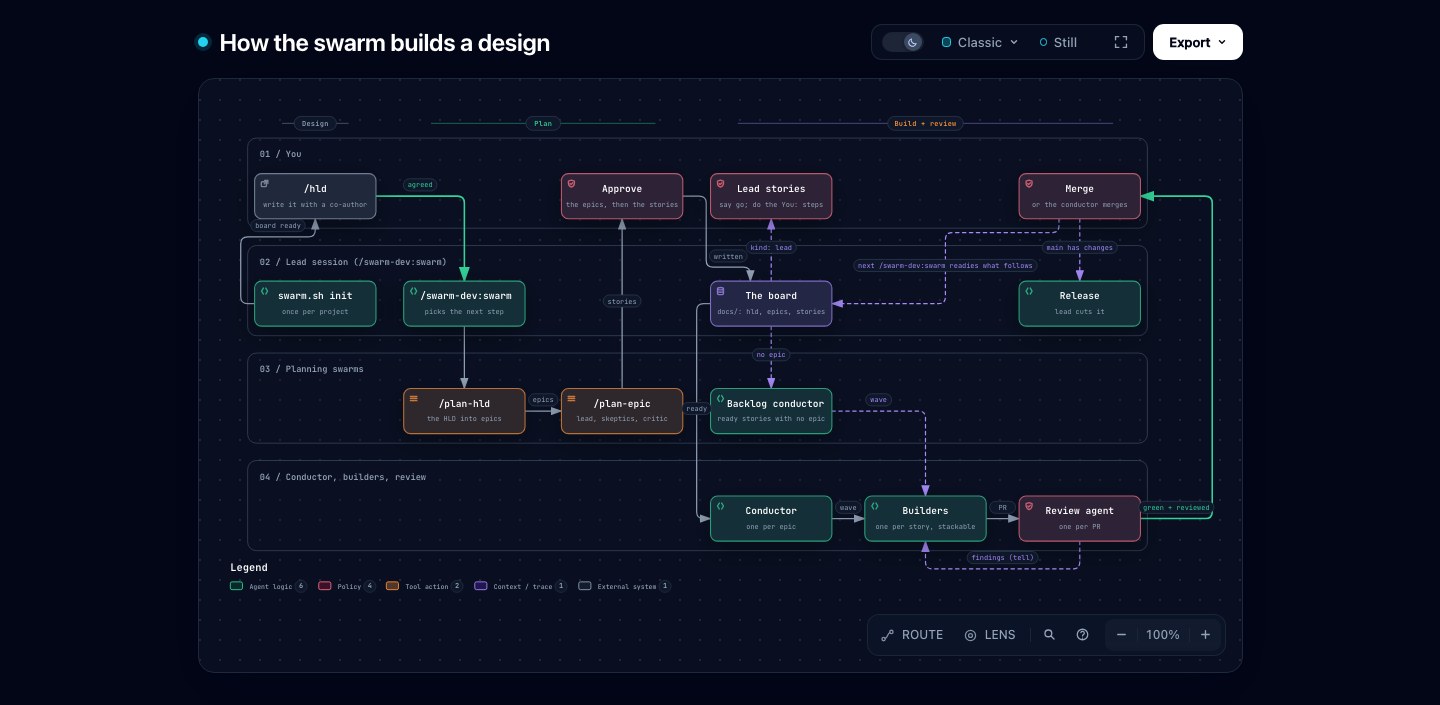
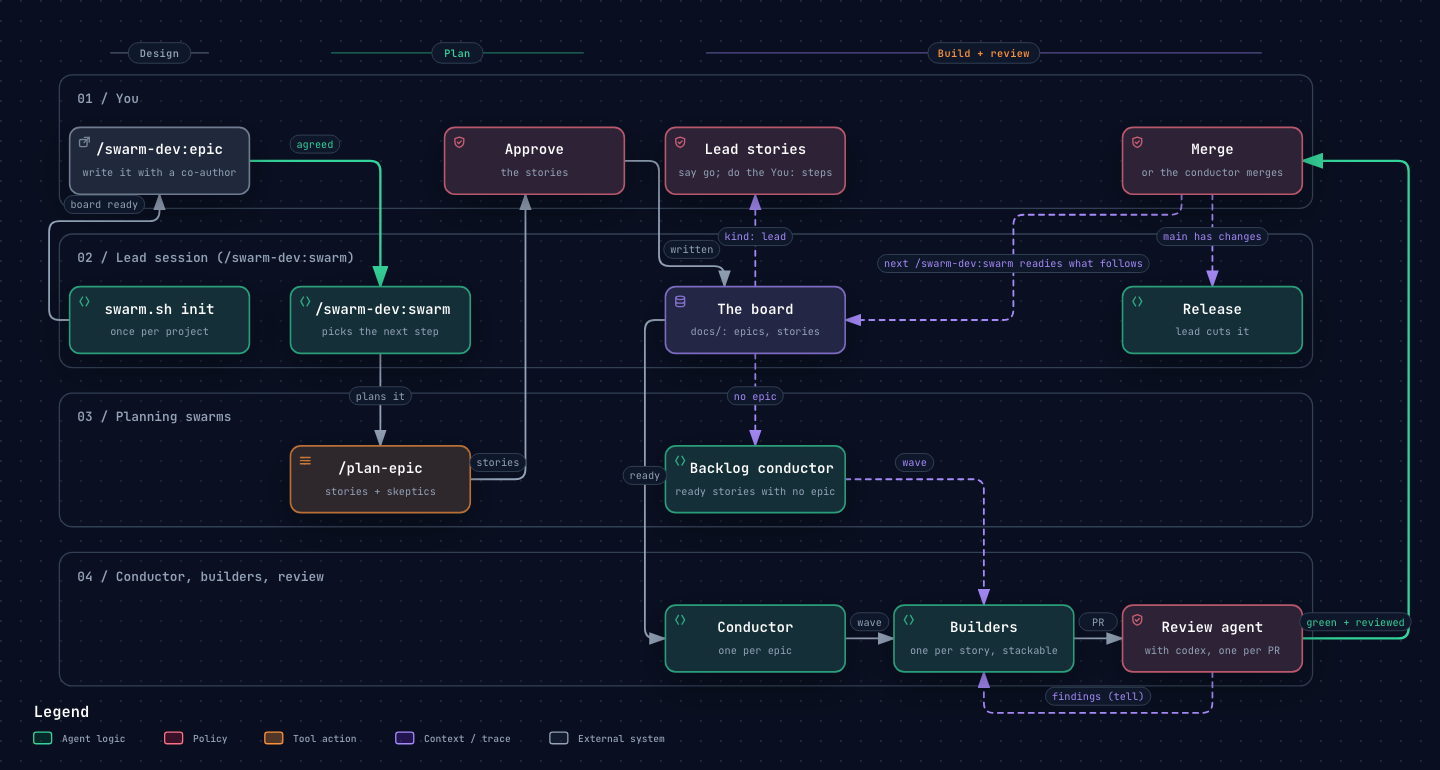
README for a newcomer, the flow diagram without /hld, and AGENTS.md corrections
Claude-Session: https://claude.ai/code/session_01DPGGTEfx4m7EudRUvhD1P5

diff --git a/README.md b/README.md
@@ -3,175 +3,137 @@
 [![CI](https://github.com/redscaresu/swarm-dev/actions/workflows/ci.yml/badge.svg)](https://github.com/redscaresu/swarm-dev/actions/workflows/ci.yml)
 [![OpenSSF Scorecard](https://api.scorecard.dev/projects/github.com/redscaresu/swarm-dev/badge)](https://scorecard.dev/viewer/?uri=github.com/redscaresu/swarm-dev)
 
-swarm-dev runs a team of Claude Code agents that build software while you watch. You agree a design
-with one agent. Others split it into one-PR stories, try to break the plan, and build the stories in
-parallel, each in its own terminal pane and git worktree. Every PR is reviewed before it merges, and
-the run stops whenever a decision is yours.
+swarm-dev is a Claude Code plugin that runs a team of agents to build software while you watch.
+You agree a piece of work with one agent. Others split it into stories of one pull request each,
+try to break that plan, then build the stories in parallel, each in its own terminal pane and git
+worktree. Every PR is reviewed before it merges, and the run stops whenever a decision is yours.
 
 ![swarm.sh dash --watch on a demo project: what needs you and the epics on the left, recent work on the right](docs/assets/dash.gif)
+
+## Quick start
+
+```bash
+claude plugin marketplace add redscaresu/swarm-dev && claude plugin install swarm-dev@swarm-dev
+```
+
+Then, in your project inside [herdr](https://herdr.dev), start `claude` and run:
+
+1. `/swarm-dev:swarm` sets up the board the first time (`swarm.sh init`).
+2. `/swarm-dev:epic Add rate limiting to the API` writes the first piece of work with you.
+3. `/swarm-dev:swarm` again plans it, builds it, and stops each time it needs you.
+
+[Getting started](#getting-started) has the details and what to check first.
 
 ## How it works
 
 <picture>
   <source media="(prefers-color-scheme: dark)" srcset="docs/assets/swarm-flow-dark.png">
-  <img alt="How the swarm builds a design: /epic, /swarm-dev:swarm, /plan-epic, the board, conductor, builders, review, merge" src="docs/assets/swarm-flow-light.png">
+  <img alt="How the swarm builds an epic: /swarm-dev:epic, /swarm-dev:swarm, /plan-epic, your approval, the board, conductor, builders, review agent, merge" src="docs/assets/swarm-flow-light.png">
 </picture>
 
-1. **Design.** You write a draft epic with a co-author agent (`/epic`): the problem with its
-   evidence, goals that can be checked, non-goals and constraints. A reviewer agent attacks it, and
-   nothing plans it until you agree it.
-2. **Plan.** Once you agree the epic, planning agents (`/plan-epic`) split it into stories of one
-   PR each, and skeptic agents try to break the plan. You approve it.
-3. **Build.** A conductor agent starts one builder per story. Each PR gets its own review agent
-   as soon as it is green, and the builder fixes what it finds. A green PR left without a review
-   for 30 minutes (`queue_minutes`) is flagged to the lead, who passes it to the conductor. With
-   `goal = N` in the config (it ships off), each builder also gets a `/goal` condition: every item
-   under its story's **Done when** holds, with N more turns to get there
-   ([details](docs/reference.md#settings)).
-4. **Merge.** Green, reviewed PRs wait for you to merge, or the conductor merges them if you set
-   `merge = agent`. Anything marked `costs: money` always waits for you. If main goes red after a
-   merge, `swarm.sh merge` writes a `fix-main-<sha>` story holding the failed tests' FAIL lines,
-   and the swarm builds that fix before anything else merges. In a swarm project, a
-   plugin hook refuses careless raw merges (`gh pr merge` and GitHub's merge API) in every Claude
-   session, so merges go through `swarm.sh merge`. Where the base has a GitHub merge queue,
-   `swarm.sh merge` goes through it, and the conductor enqueues each reviewed PR without waiting
-   for the one before it to merge ([details](docs/reference.md#merging)). The hook also refuses a `cd` followed by `;`, a
-   `git checkout` that would drop uncommitted changes, and an agent's `git checkout`, `stash` or
-   `reset --hard` in the main checkout, its `pkill` or `killall`, and its `gh pr checks` loops.
-   An agent that herdr brings back after a restart keeps these guards.
-   `swarm.sh merge --release` refuses a version bump while `bin/`, `commands/` or `hooks/` changed
-   since the last tag and README.md, AGENTS.md and `docs/` did not. The lead lands a docs PR
-   first, or, when nothing a user sees changed, writes `Docs: none — <why>` in the release PR body
-   ([details](docs/reference.md#merging)).
+1. **Write the work.** `/swarm-dev:epic <title>` opens a co-author agent in its own pane. Together
+   you write the epic: the problem and its evidence, goals that can be checked (**Done when**), what
+   is out of scope, and your part. A reviewer agent attacks the draft. Nothing is planned until you
+   agree it.
+2. **Plan.** `/swarm-dev:swarm` splits the agreed epic into stories of one PR each. A survey agent
+   reads the code, a lead agent writes the stories, and skeptic agents, codex and a critic try to
+   refute them. You approve the result, which is then written to the board. An epic too large for
+   one run is split into smaller epics first.
+3. **Build.** A conductor agent starts one builder per story. Each builder works in its own git
+   worktree and opens a PR. Once CI is green, a review agent and codex review it, and the builder
+   fixes what they find. A story that fails twice is rebuilt once on Fable, the most capable model,
+   then handed to the lead.
+4. **Merge.** By default a green, reviewed PR waits for you, or for you to ask the lead to merge it.
+   With `merge = agent`, the conductor merges it, except a story marked `costs: money`, which always
+   waits for you. If main goes red after a merge, the swarm writes a story to fix it and builds that
+   first.
 
-Your own Claude session is the lead. It runs `/swarm-dev:swarm`, watches the agents, and handles
-the stories no agent may do: real cloud, credentials and anything hard to undo. Your steps in those
-are marked **You:**. When `swarm.sh next` names a step the lead has not started, a plugin hook
-sends it back once before its turn ends, to start the step or tell you why it can't. Everything
-lives in plain Markdown files (the board), so a run can stop anywhere and the next
+Your own Claude session is the lead. It runs `/swarm-dev:swarm`, watches the agents, and does the
+stories no agent may: real cloud, credentials and anything hard to undo. Your steps in those are
+marked **You:**. The board is plain Markdown in your repo, so a run can stop anywhere and the next
 `/swarm-dev:swarm` picks up where it left off.
 
 ## Requirements
 
-- [Claude Code](https://claude.com/claude-code) 2.1.145 or later (2.1.269 or later with `goal` on)
+- [Claude Code](https://claude.com/claude-code) 2.1.145 or later
 - [herdr](https://herdr.dev) 0.9.2 or later, the terminal multiplexer every agent runs in
 - the [GitHub CLI](https://cli.github.com) and the [codex CLI](https://github.com/openai/codex), both logged in
 - `git`, `python3` and `bash`
+- a GitHub repo, with a `make check` target that runs your tests
 
 ## Getting started
 
-1. Install the plugin, then restart Claude Code:
-
-   ```bash
-   claude plugin marketplace add redscaresu/swarm-dev && claude plugin install swarm-dev@swarm-dev
-   ```
-
+1. Install the plugin (above), then restart Claude Code.
 2. In your project's root, run `claude` once and accept "do you trust this folder?". Agents can't
    start in an untrusted folder.
-3. Inside herdr, run `claude`, then `/swarm-dev:swarm` (type the whole name; the short form
-   completes to another command). The first time, it sets up the board with `swarm.sh init` (which also
-   writes a CI workflow and a pre-commit hook that run `make check`; CI skips a board-only PR)
-   and asks once for your rules for builders: commit trailers, where credentials live, commands that
-   must never run. Commit the `.claude/swarm/brief.md` it writes.
-4. Run `/epic Add rate limiting to the API`, agree the epic, then run `/swarm-dev:swarm` again.
-   Run it each time it stops for you.
+3. Inside herdr, run `claude`, then `/swarm-dev:swarm`. Type the whole name: `/swarm` alone
+   completes to another command. The first time, it runs `swarm.sh init`, which adds the board
+   (`docs/epics/` and `docs/stories/`), `.claude/swarm/config`, and a CI workflow and pre-commit
+   hook that run `make check`. It also asks once for your rules for builders: commit trailers,
+   where credentials live, and commands that must never run. Commit the `.claude/swarm/brief.md`
+   it writes.
+4. Run `/swarm-dev:epic <title>`, agree the epic, then run `/swarm-dev:swarm` again. Run it each
+   time it stops for you.
 
 Your agent can also answer "how do I use swarm-dev?" and "why did /swarm-dev:swarm stop?".
-
-| Command | What it does |
-|---|---|
-| `/epic <title>` | Write a draft epic with a co-author agent; it is planned once you agree it. |
-| `/swarm-dev:swarm` | Run everything after the design, stopping when a decision is yours. |
-| `swarm.sh dash --watch` | The live dashboard above: what needs you, what is running, merges per day over 14 days with gauges for the merge rate and running agents, and a count of ready stories nobody has started ([details](docs/dash.md)). `--check` compares each of its figures with the command that owns it. |
-| `swarm.sh status` | Agents that need a look, what waits on you, and what runs next. |
-| `swarm.sh wait-pr [--timeout <seconds>] <PR URL>` | Wait for a PR's checks: exits 0 green, 1 red, 2 when gh fails, the PR conflicts with its base, no checks appear, or one is still pending at the timeout (30 minutes by default). |
-
-The other commands are tools the lead runs; they are listed in
-[reference.md § Commands](docs/reference.md#commands). Settings go in `.claude/swarm/config`
-([all settings](docs/method.md#configuring-a-project)).
 
 ## When `/swarm-dev:swarm` stops for you
 
 | You see | Do |
 |---|---|
 | a draft epic | finish it with the co-author, then agree it |
-| proposed epics or stories | approve them, or say what to change |
+| proposed stories | approve them, or say what to change |
 | a `lead` story | say go, and do its **You:** steps |
 | a PR waiting for you | merge it, ask the lead to, or close it to send the story back |
-| a `blocked` or `later` item | nothing, or set it `ready` / `active` to start it (a `later` epic whose dependencies are done gets its stories planned first, for you to approve) |
+| a `blocked` or `later` item | nothing, or set it `ready` / `active` to start it |
 | an agent's login expired | run `/login`, then tell `/swarm-dev:swarm` it's done |
-| an agent on `usage-limit` | nothing: `wait` chose "Wait here, then continue automatically", and it carries on when the limit resets |
-| an agent stuck (`stuck: api error` after three resumes, or `stuck: no output` for `stall_minutes`) | read its pane (`herdr agent read <agent>`), then type into it or close it |
+| an agent stuck | read its pane (`herdr agent read <agent>`), then type into it or close it |
+
+## Watching it
+
+| Command | What it shows |
+|---|---|
+| `swarm.sh dash --watch` | The live dashboard above: what needs you, what is running, and merges per day ([details](docs/dash.md)). |
+| `swarm.sh status` | Agents that need a look, what waits on you, and what runs next. |
+| `swarm.sh flow` | Cost, CI health, where stories spent their time, and how each model did. |
+
+The other commands are ones the lead runs; [reference.md § Commands](docs/reference.md#commands)
+lists them all.
 
 ## Cost and safety
 
-Every agent is a full Claude Code session on your own logins. On infrafactory, from 2026-10-09 to
-2026-10-16, a story's build averaged $5.75, and the whole swarm cost $1211.60 for 137 merged PRs
-(about $9 each, planning and review included), at list prices from `swarm.sh flow` and `outcomes`.
-The `cost` section of `swarm.sh flow` shows where your own tokens went, its `ci_health`
-section shows how long CI takes per push, how often it goes red and how often it flakes, and its
-`incidents` section counts, per day, the waits that timed out, the logins that expired, the
-builders that stopped with no PR, the board pulls that an uncommitted edit stopped, each time a
-person had to step in (`swarm.sh intervene lead-hand|user-caught "<one line>"`, which the lead logs;
-dash shows the 7-day count beside the speedometer), then the agents that stopped on an API error or
-an auto mode denial, per epic. `ci_health` also gives each repo's median CI time per PR and its
-slowest job, beside the same figures for the window before; dash shows this week's against last
-week's on one line. When gh cannot read a PR, it names the gh call and gh's error. Its
-`lead_queue` section shows, per day, the median and longest time a held, escalated or ready-to-merge
-item waited on the lead, and names any still waiting. With `merge = agent`, only a PR that costs
-money waits on you, so only those count. Its `model_fit` section sets cost against results for each
-model and kind of story, so you can see where a cheaper model holds up before you move more work to
-it. Its `time_in_state` section shows where each epic's stories spent their time: held ready while a
-conductor ran but before their build started, building, CI, waiting for review, fixing findings or
-waiting for a merge, in hours and as a share of the whole. `swarm.sh dataset` writes `.swarm/dataset.jsonl`, one
-line per merged story, so you can compare what the planner predicted (easy or not, and the size
-estimate) with what the build took.
+Every agent is a full Claude Code session on your own logins, so a run spends real tokens. On one
+project a story's build averaged $5.75, or about $9 per merged PR with planning and review
+included, at list prices. `swarm.sh flow` shows where your own tokens went.
 
-Agents never touch real cloud or credentials: that work is a `lead` story, done in your session
-while you watch. A `lead` story whose `after:` names its own epic waits for that epic and does not
-hold it open: once its code stories are built, `next`, `status` and `dash` count the epic as done
-without it. Agents start with a short list of environment variables, and a token you exported
-reaches a builder only when its story names it under `env:`. That includes a login kept in the
-environment (`ANTHROPIC_API_KEY`, `CLAUDE_CODE_OAUTH_TOKEN`, `OPENAI_API_KEY`). Agents with no story
-of their own, such as planners and review agents, never get one, so log in through `claude`,
-`codex login` and `gh auth login` instead ([reference.md](docs/reference.md#building)). By default no agent merges. A story that fails twice is rebuilt once on Fable, the
-most capable model, and then comes to the lead. Failed attempts clean up after themselves. The
-details are in [reference.md](docs/reference.md#cleanup-escalation-and-session-logs). With
-`escalate_ladder = sonnet,opus,fable` in the config (it ships off), `swarm.sh step-up <slug> <trigger>`
-hands a build that is struggling to the next model up, on the same branch, without counting a failed
-attempt. swarm.sh runs it itself when a builder stops with no PR, stalls, gets a third round of
-findings or has CI fail on two heads ([reference.md](docs/reference.md#the-escalation-ladder)).
-`swarm.sh close` never closes a tab that still holds a working builder or one whose PR is open. It
-names each one it kept, and `--all` closes them too.
+- No agent touches real cloud or credentials. That work is a `lead` story, done in your session
+  while you watch.
+- Agents start with a short list of environment variables. A token you exported reaches a builder
+  only when its story names it under `env:`.
+- In a swarm project, a plugin hook guards every Claude session. It refuses raw PR merges (merges
+  go through `swarm.sh merge`), a `git checkout` that would drop changes, and an agent's `pkill`.
+- Nothing merges until you say so, unless you set `merge = agent`.
 
-If herdr stops (`herdr server stop`) or restarts, it reopens each agent's pane and resumes its
-session with the flags it started with, so the agent keeps its model, its guards and its short list
-of environment variables. A resumed session waits at its prompt. An agent started by swarm-dev
-0.23.0 or earlier has no such command and comes back without its guards. Run `/swarm-dev:swarm`
-again and it picks up from the board ([details](docs/reference.md#merging)).
+Settings live in `.claude/swarm/config`; [reference.md § Settings](docs/reference.md#settings)
+lists them all.
+
+## Updating
+
+```bash
+claude plugin marketplace update swarm-dev && claude plugin update swarm-dev@swarm-dev
+```
+
+Restart Claude Code afterwards. Agents already running stay on the old version until
+`swarm.sh upgrade <epic>` restarts them on the new one, each resuming its own session.
 
 ## More
 
-- [The method](docs/method.md): the short guide to how planning, building and merging work.
+- [The method](docs/method.md): how planning, building and merging work, in short.
 - [Reference](docs/reference.md): every rule, setting, command and log.
-- On Foundry, Bedrock or Vertex, agents get the provider and model selection (`CLAUDE_CODE_USE_BEDROCK`,
-  `CLAUDE_CODE_USE_VERTEX`, `CLAUDE_CODE_USE_FOUNDRY`, `ANTHROPIC_MODEL`, `ANTHROPIC_SMALL_FAST_MODEL`,
-  `AWS_REGION`, `AWS_PROFILE`, `CLOUD_ML_REGION`, `ANTHROPIC_VERTEX_PROJECT_ID`) from the session that
-  runs swarm.sh, so a `claude()` wrapper in `~/.zshrc` that exports them still picks the provider.
-  Exported credentials do not reach agents. Log in through the provider's own tools instead
-  (`aws sso login` or a profile in `~/.aws`, `gcloud auth application-default login`), and put any
-  other settings under `env` in `~/.claude/settings.json`.
-
-- [Obsidian](https://obsidian.md) can show the board as a vault, grouped by status. It shows each
-  file's committed status: what swarm.sh sets later (a review, an unblock) is kept in
-  `.swarm/board-state` instead, so `git status` stays clean. `swarm.sh status` and `swarm.sh dash` read both.
-- To update: `! claude plugin marketplace update swarm-dev`, then
-  `! claude plugin update swarm-dev@swarm-dev`, and restart. Agents already running stay on the old version
-  until `swarm.sh upgrade <epic>` restarts them on the new one, each resuming its own session.
-- [`SECURITY.md`](SECURITY.md) for security, [`AGENTS.md`](AGENTS.md) for working on swarm-dev itself.
-  There, `make test` runs every `tests/*_test.sh`, as many at once as the machine has CPUs (`make test JOBS=2` for fewer),
-  with swarm.sh's fixed waits cut to a hundredth (`SWARM_SLEEP_SCALE=0.01`). The few files whose
-  timing does not hold up beside the others (`SERIAL` in the Makefile) run one at a time after them.
+- [AGENTS.md](AGENTS.md) for working on swarm-dev itself, and [SECURITY.md](SECURITY.md) for
+  reporting a vulnerability.
+- On Bedrock, Vertex or Foundry, agents take the provider and model settings from your session;
+  see [reference.md § Building](docs/reference.md#building).
 
 ## License
 

diff --git a/AGENTS.md b/AGENTS.md
@@ -42,7 +42,7 @@ If `swarm.sh` is missing, the user runs `claude plugin marketplace add redscares
 `claude plugin install swarm-dev@swarm-dev`, then restarts Claude Code.
 
 **Set the project up** if `<board>/stories/README.md` does not exist, where `<board>` is what
-`swarm.sh config board_dir` prints (`docs` by default, so `docs/stories/README.md`): run `swarm.sh init` and follow the README's § Getting started, step 3. Keep links as
+`swarm.sh config board_dir` prints (`docs` by default, so `docs/stories/README.md`): run `swarm.sh init` and follow the root README.md's § Getting started from step 3. Keep links as
 markdown links, never `[[wikilinks]]`. Ask the user for the contents of `.claude/swarm/brief.md`
 (their commit trailers, where credentials live, commands that must not run); do not invent them.
 
@@ -62,19 +62,19 @@ Useful while it runs:
 - `swarm.sh dash [--watch [seconds]]`, and `swarm.sh dash --project <dir>` (repeatable): the board, agents, running-now box, merges-per-day speedometer, model ladder and recent events on one read-only screen; each `--project` draws another project.
 - `swarm.sh tidy [--yes]`: close empty panes and retired agents' panes; lists them first.
 - `swarm.sh next`: the next step, without doing it. It prints `release` when `main` has changes since the last `v<version>` tag, and `idle:` lines for capacity nothing uses (`dash` shows them too).
-- `swarm.sh conduct <epic>|--backlog`: a fresh conductor for one epic, or for the ready stories with no epic; `swarm.sh watch [--backlog]` returns when a story PR needs the lead.
+- `swarm.sh conduct <epic>|--backlog`: a fresh conductor for one epic, or for the ready stories with no epic; `swarm.sh watch [--epic <slug>|--backlog] [repo...]` returns when a story PR needs the lead.
 - `swarm.sh wait --lead`: returns when the lead's queue gains a held or escalated story or a green PR that waits on the user.
 - `swarm.sh wait-pr <pr-url>`: wait for a PR's checks; exit 0 green, 1 red, 2 on a gh error, a conflict with the base, or the timeout. Every CI wait goes through it; the guard refuses a hand-written `gh pr checks` loop.
 - `swarm.sh review-agent <slug> <pr-url>`: a read-only review agent for one PR, scoped to its story's `touches` and **Done when**.
-- `swarm.sh outcomes` and `swarm.sh flow [--since YYYY-MM-DD] [--epic <slug>]`: one row per build with its timings, and the project's numbers a section each: `cost`, `features`, `reviewers`, `throughput`, `time_in_state` (with time held ready while a conductor ran) and more.
+- `swarm.sh outcomes` and `swarm.sh flow [--since YYYY-MM-DD] [--until YYYY-MM-DD] [--epic <slug>]`: one row per build with its timings, and the project's numbers a section each: `cost`, `features`, `reviewers`, `throughput`, `time_in_state` (with time held ready while a conductor ran) and more.
 - `swarm.sh dataset`: write `.swarm/dataset.jsonl`, one JSON line per merged story, its plan beside what the build took.
 - `swarm.sh policy <role>`: model and effort for a role.
 - `swarm.sh tell <slug> <kind> <file>`: findings, nudge or resume sends an idle builder a file; `tell conduct-<epic> note <file>` appends it to a conductor's inbox, busy or not.
 - `swarm.sh merge [--board|--release] <pr-url>`: merge a green PR in review with its head pinned, wait for CI on main, then reconcile; `--release` merges the lead's version-bump PR. Where the base has a merge queue it enqueues the PR. When CI on main goes red on a commit it merged, it prints `fix-main:` and writes a `fix-main-<sha>` story, which `next` names first. With `merge_admin = on` it passes `--admin` once its own checks pass. In a swarm project the plugin's guard hook refuses any other merge.
-- `swarm.sh step-up <slug> <trigger>`: hand a struggling build to the next model in `escalate_ladder` (off by default), on the same branch, without counting an attempt. With the ladder set, swarm.sh runs it itself on `no-pr`, `stalled`, `findings-3` and `ci-red-2`.
+- `swarm.sh step-up <slug> <trigger>`: hand a struggling build to the next model in `escalate_ladder` (off by default), on the same branch, without counting an attempt. With the ladder set, swarm.sh runs it itself on `no-pr`, `stalled`, `findings-3` and `ci-red-2`. `step-up --resume <slug>` starts a rung whose start failed.
 - `swarm.sh intervene lead-hand|user-caught "<one line>"`: log a time a person had to step in; `flow` and `dash` count them.
 - `swarm.sh dash --check`: compare each figure dash shows with the command that owns it.
-- `swarm.sh log-finding [--declined <reason> | --filed] [--reviewer <who>] <kind> <pr> <text>`: the outer loop. Log findings by kind, with the reason for a declined one and who raised it (codex, fallback, code-review, ci, conductor, lead, skeptic, critic, or escaped). `outcomes`' recurring block lists kinds fixed on 3+ PRs, and `/swarm-dev:swarm` files a `checks:` story for each.
+- `swarm.sh log-finding [--declined <reason> | --filed] [--reviewer <who>] <kind> <pr> <text>`: the outer loop. Log findings by kind, with the reason for a declined one and who raised it (codex, fallback, code-review, ci, conductor, lead, skeptic, critic, split-critic, or escaped). `outcomes`' recurring block lists kinds fixed on 3+ PRs, and `/swarm-dev:swarm` files a `checks:` story for each.
 - `herdr agent read <name> --source recent-unwrapped`: what an agent is doing.
 
 **Rules that are not negotiable:**
@@ -94,7 +94,7 @@ Useful while it runs:
   agent. List them for the user.
 - One conductor per epic. Two stories clash only when their `touches` name the same `file:symbol`,
   or either names the bare file; clashing stories in two epics get a `depends_on`. Only the lead
-  edits the shared files `AGENTS.md` names.
+  edits the shared files the project's `AGENTS.md` names.
 - A question for the user is a `kind: lead` story with a **You:** step, not a line in chat.
 
 ## Working on this repository
@@ -104,9 +104,14 @@ bin/swarm.sh          the entry point: usage, settings, the model policy, the co
 bin/lib/*.sh          the commands by group (agents, board, build, dash, lifecycle, merge, reports)
 bin/lib/*.py          the Python helpers the commands run
 commands/             /epic, /plan-epic, /swarm (Markdown the plugin loads)
-hooks/                merge-guard.sh: the PreToolUse guard on merges and commands that lose work
+hooks/                hooks.json; merge-guard.sh (the guard on merges and commands that lose work), agent-state.sh
+                      (an agent's state for herdr) and lead-stop.sh (the lead's turn ends only when next allows)
+scripts/              test.sh (the make test runner), pre-commit, board-only.sh
 tests/                *_test.sh, run by make test; doc_check_test.sh checks the docs name only what swarm.sh has
 docs/method.md        the method; change it when behaviour changes
+docs/reference.md     every rule, setting, command and log
+board/                this repo's own board (board_dir = board); docs/ holds user docs only
+skills/swarm-dev/     the plugin skill that answers "how do I use swarm-dev?"
 templates/docs/       what a project copies: the board formats and Obsidian views
 .claude-plugin/       plugin and marketplace manifests
 ```
@@ -117,7 +122,7 @@ Before you open a PR:
 make hooks                                  # once: the gitleaks pre-commit hook
 shellcheck bin/swarm.sh bin/lib/*.sh scripts/pre-commit scripts/demo-dash.sh scripts/board-only.sh scripts/test.sh tests/*.sh
 python3 -m py_compile bin/lib/*.py
-make test                                   # every tests/*_test.sh in parallel, swarm.sh's sleeps cut by SWARM_SLEEP_SCALE
+make test                                   # every tests/*_test.sh: in parallel, SLOW files first, SERIAL ones alone
 claude plugin validate .
 ```
 
@@ -132,7 +137,7 @@ never `[[wikilinks]]`.
 
 `bin/swarm.sh` and `bin/lib/*.sh` must run on macOS's bash 3.2: no `mapfile`, no associative arrays. Pin every GitHub
 Action to a commit SHA, with `persist-credentials: false` and read-only permissions; zizmor fails
-the PR otherwise. CI (shellcheck, test, plugin-validate, gitleaks, zizmor) is required on `main`.
+the PR otherwise. CI (shellcheck, test, plugin-validate, gitleaks, zizmor) is required on `main`; `test` passes when its 8 `test-shard` jobs do (`SHARD=i/N` runs one locally).
 When `swarm.sh next` prints `release` (`main` has changes since the last `v<version>` tag), the lead cuts a
 release through `/swarm-dev:swarm`'s release arm and `swarm.sh merge --release`: a PR that bumps `version` in
 `.claude-plugin/plugin.json` and nothing else. `claude plugin update` fetches nothing while the version is
